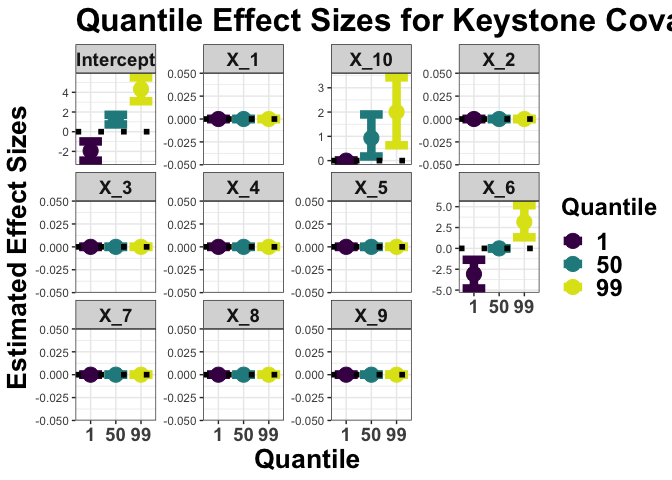
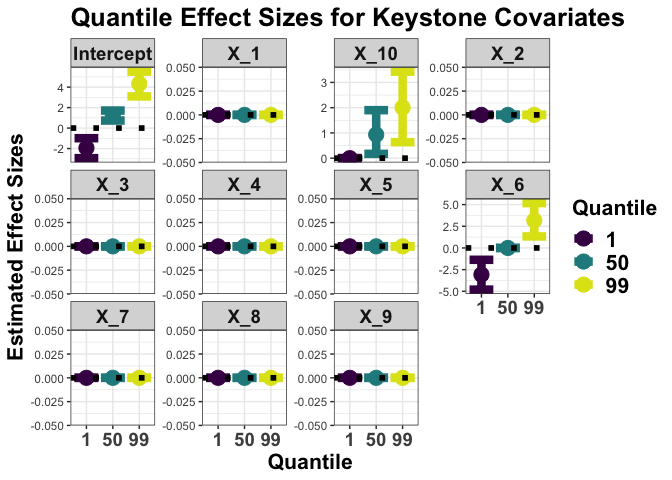
Fixed plot formatting in README

Changed region(s): [[0.0, 0.0, 1.0, 1.0]]

diff --git a/README.md b/README.md
@@ -325,9 +325,9 @@ ggplot(coefs_uncert_small  , aes(x = factor(tau), y = point, color = factor(tau)
   theme(
         strip.text = element_text(face = "bold", size =14),
         axis.text.x = element_text(face = "bold", size = 14),
-        legend.text = element_text(face = "bold", size = 18),
-        legend.title = element_text(face = "bold", size =18),
-        title = element_text(face = "bold", size = 20))+
+        legend.text = element_text(face = "bold", size = 16),
+        legend.title = element_text(face = "bold", size =16),
+        title = element_text(face = "bold", size = 16))+
   xlab("Quantile")+
   ylab("Estimated Effect Sizes")+
   scale_color_viridis_d( begin = 0, end = .95)+
